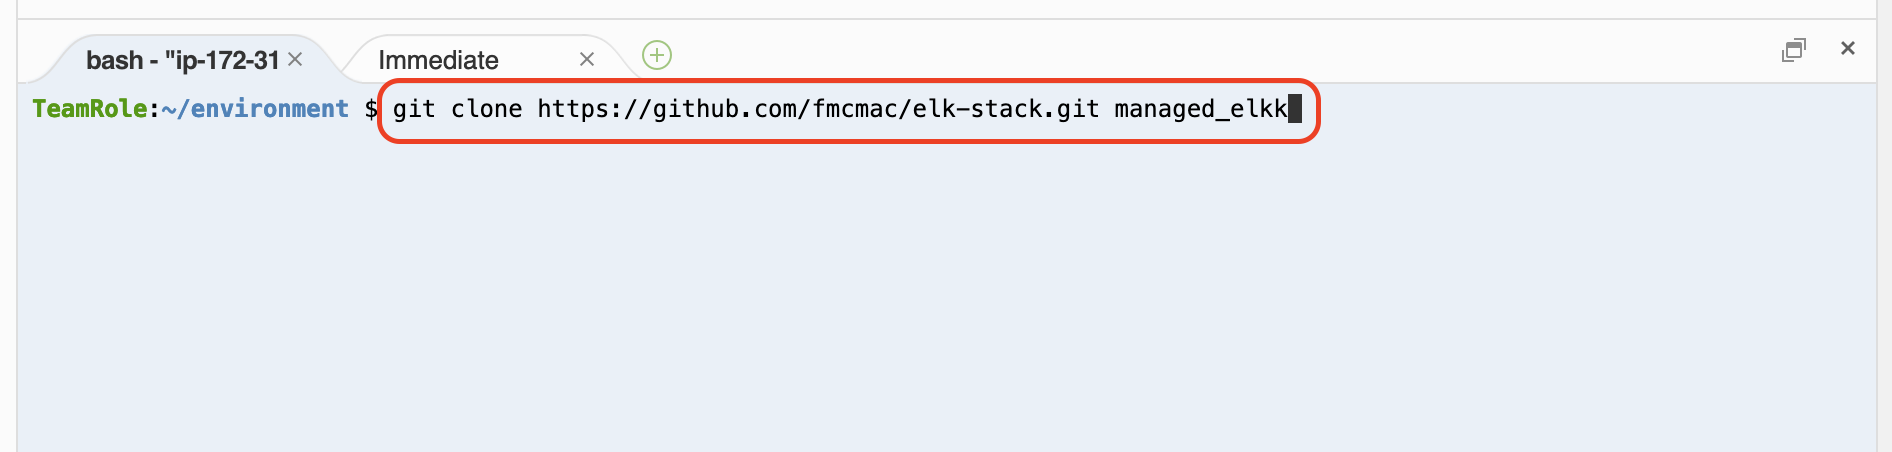
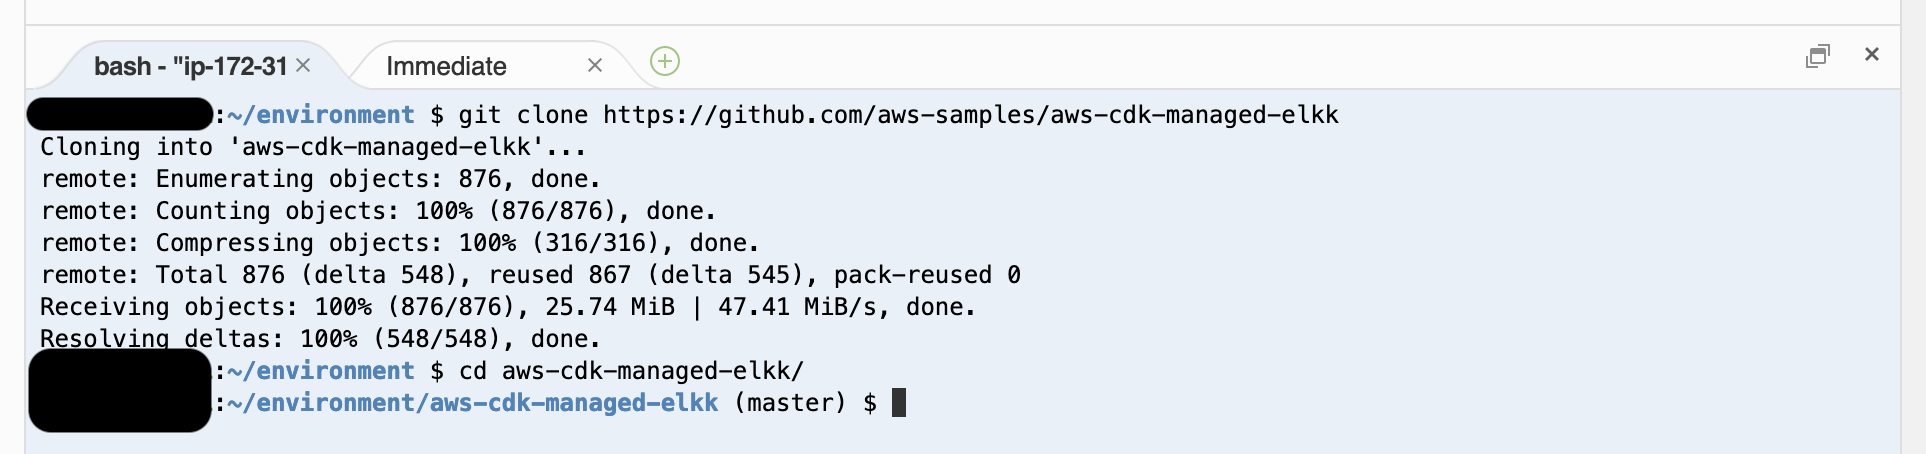
Update readme and images

Changed region(s): [[0.0, 0.031, 0.9979, 0.3407], [0.0, 0.5885, 0.5301, 0.9602], [0.0, 0.3717, 0.4054, 0.5575]]

diff --git a/README.md b/README.md
@@ -167,20 +167,23 @@ Complete the following steps to set up the Managed ELKK workshop in your environ
 
 At a bash terminal session.
 
-![Terminal - Clone the repo](/img/create_elkk_idx_1.png)
-
 ```bash
 # clone the repo
 $ git clone https://github.com/aws-samples/aws-cdk-managed-elkk
 # move to directory
 $ cd aws-cdk-managed-elkk
+```
+
+![Create Elkk - 1](/img/create_elkk_idx_1.png)
+
+```bash
 # bootstrap the remaining setup (assumes us-east-1)
 $ bash bootstrap.sh
 # activate the virtual environment
 $ source .env/bin/activate
 ```
 
-![Terminal - Activate ENV](/img/create_elkk_idx_2.png)
+![Craete Elkk - 2](/img/create_elkk_idx_2.png)
 
 ### Boostrap the CDK
 
